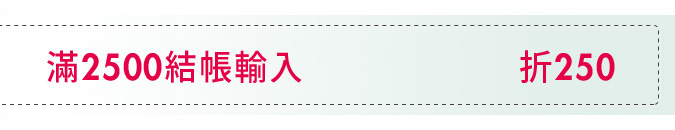
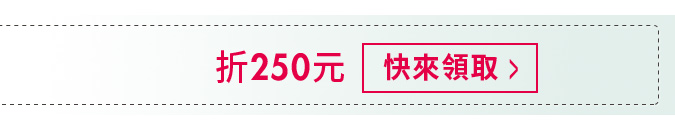
000

Changed region(s): [[0.0622, 0.3692, 0.5289, 0.6462], [0.5289, 0.3077, 0.9333, 0.6462], [0.5289, 0.6769, 0.8089, 0.7385]]

diff --git a/190702/index.html b/190702/index.html
@@ -24,14 +24,13 @@
             <td>
                   <table width="100%" cellpadding="0" cellspacing="0" border="0">
                     <tr>
-                        <td><a href="https://reurl.cc/RVzge" target="_brank"><img src="https://jw-ddp.github.io/biotherm-yahoo/190702/02-02.jpg" width="465" height="130"></a></td>
-                        <td width="675" style="background-image: url(https://jw-ddp.github.io/biotherm-yahoo/190702/02-02-1.jpg);"><span style="padding-left: 325px; font-size:30px; font-weight: bold;">7M1W250</span></td>
+                        <td><a href="https://reurl.cc/785kl" target="_brank"><img src="https://jw-ddp.github.io/biotherm-yahoo/190702/02-02_02.jpg" width="1140" height="130"></a></td>
                     </tr>
                 </table>
                 <table width="100%" cellpadding="0" cellspacing="0" border="0">
                     <tr>
-                        <td><a href="https://reurl.cc/RVzge" target="_brank"><img src="https://jw-ddp.github.io/biotherm-yahoo/190702/02-02.jpg" width="465" height="130"></a></td>
-                        <td width="675" style="background-image: url(https://jw-ddp.github.io/biotherm-yahoo/190702/02-02-1.jpg);"><span style="padding-left: 325px; font-size:30px; font-weight: bold;">7M1W250</span></td>
+                        
+                        <td width="675" style="background-image: url(https://jw-ddp.github.io/biotherm-yahoo/190702/02-02_01.jpg);"><span style="padding-left: 325px; font-size:30px; font-weight: bold;">7M1W250</span></td>
                     </tr>
                 </table>
             </td>
